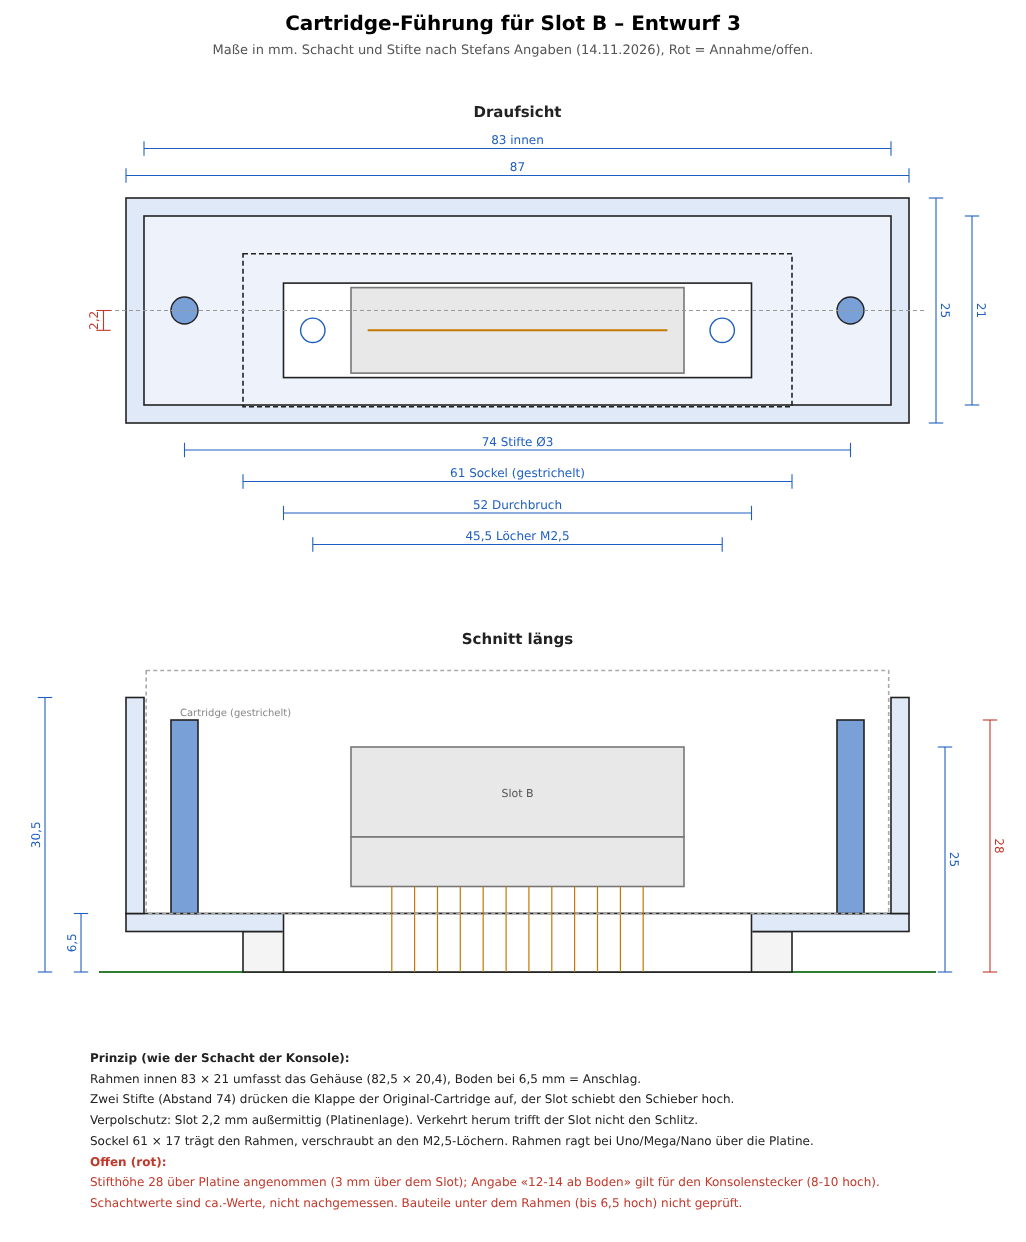
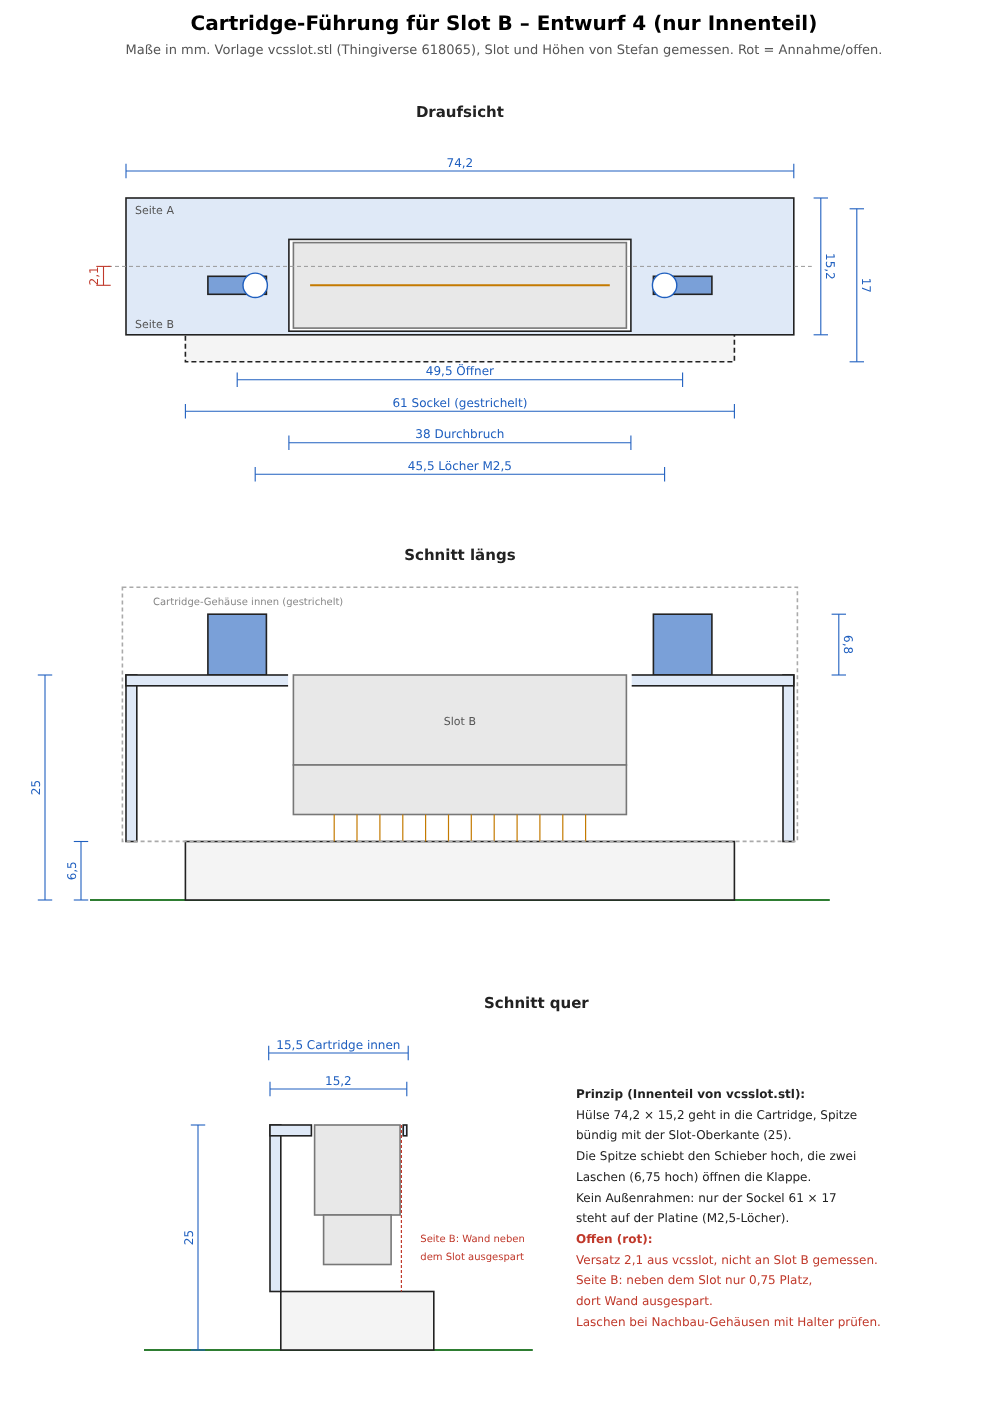
Cartridge guide draft 4: inner sleeve only, based on vcsslot.stl
Claude-Session: https://claude.ai/code/session_015VQCpzuZ22TPQEmx9cLrbH

diff --git a/hardware/guide-drawing/zeichnung.py b/hardware/guide-drawing/zeichnung.py
@@ -1,23 +1,19 @@
-# 2D-Massskizze der Cartridge-Fuehrung (3D-Druck), Entwurf 3: Aussenrahmen wie der Konsolenschacht, zwei Oeffner-Stifte
+# 2D-Massskizze der Cartridge-Fuehrung (3D-Druck), Entwurf 4: nur der Innenteil (Huelse) nach vcsslot.stl, angepasst an Slot B
 import sys
 # --- gemessen (Stefan 14.11.2026) ---
-SHELL_OUT_L, SHELL_OUT_W = 82.5, 20.4    # Cartridge aussen
 SLOT_TOP = 25.0                          # Oberkante Slot B ueber Platine (auf Stiftleisten)
-SHELL_Z = 6.5                            # Unterkante Gehaeuse ueber Platine, Cartridge gesteckt
+SHELL_Z = 6.5                            # Unterkante Cartridge-Gehaeuse ueber Platine, gesteckt
+SHELL_IN_L, SHELL_IN_W = 75.0, 15.5      # Cartridge innen
 SL_L, SL_W = 37.0, 9.5                   # Slot B
-# --- Schacht-Angaben (Stefan 14.11.2026, Konsolen-Schacht, ca.-Werte) ---
-FR_IN_L, FR_IN_W = 83.0, 21.0            # Innenmass Rahmen
-WALL = 2.0
-FR_L, FR_W = FR_IN_L + 2 * WALL, FR_IN_W + 2 * WALL
-PIN_X, PIN_D = 37.0, 3.0                 # Stifte +-37 von der Mitte
+# --- aus vcsslot.stl (RabbitEngineering, Thingiverse 618065) ---
+SLV_L, SLV_W = 74.2, 15.2                # Huelse an der Spitze
+OFF = 2.1                                # Platinenschlitz neben der Mitte
+PIN_X, PIN_L, PIN_T, PIN_H = 24.75, 6.5, 2.0, 6.75   # Klappen-Oeffner (Laschen ueber der Spitze)
 # --- Entwurf ---
-OFF = 2.2                                # Slot neben der Mitte (Platinenlage aus holder.stl), Verpolschutz
-FLOOR_T = 2.0                            # Anschlagboden, Oberkante = Gehaeuseunterkante 6,5
-FR_TOP = SHELL_Z + 24.0                  # Schachttiefe 24 (Angabe 22-25)
-PIN_TOP = SLOT_TOP + 3.0                 # Annahme: Stifte 3 mm ueber dem Slot, damit die Klappe vor dem Slot aufgeht
+WALL, TIP_T = 1.2, 1.2
+OPEN_L, OPEN_W = SL_L + 1.0, SL_W + 0.7  # Durchbruch in der Spitze fuer den Slot
 BASE_L, BASE_W = 61.0, 17.0              # Sockel = freie Flaeche auf allen Platinen
 HOLE_X, HOLE_D = 22.75, 2.7              # M2,5-Loecher der Platine
-CUT_L, CUT_W = 52.0, 10.5                # Durchbruch im Boden fuer den Slot
 S = 9
 RED, DIM, PIN, ADPC = '#c0392b', '#1f5fbf', '#c47a00', '#d9c7a0'
 out = []
@@ -40,73 +36,91 @@ def dimv(x, y1, y2, t, c=DIM, left=True):
 
 def hline(y, x0, x1, c='#999'): ln(x0, y, x1, y, c, 1, '4,3')
 
-
-def hline(y, x0, x1, c='#999'): ln(x0, y, x1, y, c, 1, '4,3')
-
 # --- Draufsicht ---
 ox, oy = 14, 22
-cx, cy = ox + FR_L / 2, oy + FR_W / 2
+cx, cy = ox + SLV_L / 2, oy + SLV_W / 2
 txt(cx, oy - 9, 'Draufsicht', 15, bold=True)
-rect(ox, oy, FR_L, FR_W, fill='#dfe9f7')
-rect(ox + WALL, oy + WALL, FR_IN_L, FR_IN_W, fill='#eef3fb')
-rect(cx - BASE_L / 2, cy + OFF - BASE_W / 2, BASE_L, BASE_W, fill='none', dash='5,3')
-rect(cx - CUT_L / 2, cy + OFF - CUT_W / 2, CUT_L, CUT_W, fill='white')
+rect(cx - BASE_L / 2, cy + OFF - BASE_W / 2, BASE_L, BASE_W, fill='#f4f4f4', dash='5,3')
+rect(ox, oy, SLV_L, SLV_W, fill='#dfe9f7')
+rect(cx - OPEN_L / 2, cy + OFF - OPEN_W / 2, OPEN_L, OPEN_W, fill='white')
 rect(cx - SL_L / 2, cy + OFF - SL_W / 2, SL_L, SL_W, fill='#e8e8e8', c='#777')
 ln(cx - 16.65, cy + OFF, cx + 16.65, cy + OFF, PIN, 2)
 for s in (-1, 1):
+    rect(cx + s * PIN_X - PIN_L / 2, cy + OFF - PIN_T / 2, PIN_L, PIN_T, fill='#7aa0d8')
     circ(cx + s * HOLE_X, cy + OFF, HOLE_D, '#fff', DIM)
-    circ(cx + s * PIN_X, cy, PIN_D, '#7aa0d8')
-hline(cy, ox - 2, ox + FR_L + 2)
-dimh(ox, ox + FR_L, oy - 2.5, f(FR_L))
-dimh(ox + WALL, ox + WALL + FR_IN_L, oy - 5.5, f(FR_IN_L) + ' innen')
-dimh(cx - PIN_X, cx + PIN_X, oy + FR_W + 3, f(2 * PIN_X) + ' Stifte Ø3')
-dimh(cx - BASE_L / 2, cx + BASE_L / 2, oy + FR_W + 6.5, f(BASE_L) + ' Sockel (gestrichelt)')
-dimh(cx - CUT_L / 2, cx + CUT_L / 2, oy + FR_W + 10, f(CUT_L) + ' Durchbruch')
-dimh(cx - HOLE_X, cx + HOLE_X, oy + FR_W + 13.5, f(2 * HOLE_X) + ' Löcher M2,5')
-dimv(ox + FR_L + 3, oy, oy + FR_W, f(FR_W), left=False)
-dimv(ox + FR_L + 7, oy + WALL, oy + WALL + FR_IN_W, f(FR_IN_W), left=False)
+hline(cy, ox - 2, ox + SLV_L + 2)
+dimh(ox, ox + SLV_L, oy - 3, f(SLV_L))
+dimh(cx - PIN_X, cx + PIN_X, oy + SLV_W + 5, f(2 * PIN_X) + ' Öffner')
+dimh(cx - BASE_L / 2, cx + BASE_L / 2, oy + SLV_W + 8.5, f(BASE_L) + ' Sockel (gestrichelt)')
+dimh(cx - OPEN_L / 2, cx + OPEN_L / 2, oy + SLV_W + 12, f(OPEN_L) + ' Durchbruch')
+dimh(cx - HOLE_X, cx + HOLE_X, oy + SLV_W + 15.5, f(2 * HOLE_X) + ' Löcher M2,5')
+dimv(ox + SLV_L + 3, oy, oy + SLV_W, f(SLV_W), left=False)
+dimv(ox + SLV_L + 7, cy + OFF - BASE_W / 2, cy + OFF + BASE_W / 2, f(BASE_W), left=False)
 dimv(ox - 2.5, cy, cy + OFF, f(OFF), RED)
+txt(ox + 1, oy + 1.8, 'Seite A', 11, '#555', 'start')
+txt(ox + 1, oy + SLV_W - .8, 'Seite B', 11, '#555', 'start')
 
-# --- Schnitt laengs (durch die Stifte) ---
-lx, base = 14, 108
-lcx = lx + FR_L / 2
-txt(lcx, base - FR_TOP - 6, 'Schnitt längs', 15, bold=True)
-ln(lx - 3, base, lx + FR_L + 3, base, '#2e7d32', 2.2)
-rect(lcx - BASE_L / 2, base - SHELL_Z + FLOOR_T, BASE_L, SHELL_Z - FLOOR_T, fill='#f4f4f4')
-rect(lx, base - SHELL_Z, FR_L, FLOOR_T, fill='#dfe9f7')
+# --- Schnitt laengs ---
+lx, base = 14, 100
+lcx = lx + SLV_L / 2
+txt(lcx, base - SLOT_TOP - PIN_H - 6, 'Schnitt längs', 15, bold=True)
+ln(lx - 4, base, lx + SLV_L + 4, base, '#2e7d32', 2.2)
+rect(lcx - BASE_L / 2, base - SHELL_Z, BASE_L, SHELL_Z, fill='#f4f4f4')
 for s in (-1, 1):
-    x0 = lx if s < 0 else lx + FR_L - WALL
-    rect(x0, base - FR_TOP, WALL, FR_TOP - SHELL_Z, fill='#dfe9f7')
-    rect(lcx + s * PIN_X - PIN_D / 2, base - PIN_TOP, PIN_D, PIN_TOP - SHELL_Z, fill='#7aa0d8')
-rect(lcx - CUT_L / 2, base - SHELL_Z, CUT_L, FLOOR_T + .2, fill='white', c='white')
-rect(lcx - CUT_L / 2, base - SHELL_Z, CUT_L, SHELL_Z, fill='white')
+    x0 = lx if s < 0 else lx + SLV_L - WALL
+    rect(x0, base - SLOT_TOP, WALL, SLOT_TOP - SHELL_Z, fill='#dfe9f7')
+    rect(lcx + s * PIN_X - PIN_L / 2, base - SLOT_TOP - PIN_H, PIN_L, PIN_H, fill='#7aa0d8')
+rect(lx, base - SLOT_TOP, SLV_L, TIP_T, fill='#dfe9f7')
+rect(lcx - OPEN_L / 2, base - SLOT_TOP - .1, OPEN_L, TIP_T + .2, fill='white', c='white')
 rect(lcx - SL_L / 2, base - SLOT_TOP, SL_L, 10, fill='#e8e8e8', c='#777')
 rect(lcx - SL_L / 2, base - SLOT_TOP + 10, SL_L, 5.5, fill='#e8e8e8', c='#777')
 for i in range(12):
     x = lcx - 13.97 + i * 2.54
-    ln(x, base - SLOT_TOP + 15.5, x, base, PIN, 1.2)
-rect(lx + WALL + .25, base - FR_TOP - 3, SHELL_OUT_L, FR_TOP - SHELL_Z + 3, fill='none', c='#aaa', dash='4,3')
-dimv(lx - 9, base - FR_TOP, base, f(FR_TOP))
+    ln(x, base - SLOT_TOP + 15.5, x, base - SHELL_Z, PIN, 1.2)
+rect(lx + (SLV_L - SHELL_IN_L) / 2, base - SLOT_TOP - PIN_H - 3, SHELL_IN_L, SLOT_TOP + PIN_H + 3 - SHELL_Z, fill='none', c='#aaa', dash='4,3')
+dimv(lx - 9, base - SLOT_TOP, base, f(SLOT_TOP))
 dimv(lx - 5, base - SHELL_Z, base, f(SHELL_Z))
-dimv(lx + FR_L + 4, base - SLOT_TOP, base, f(SLOT_TOP), left=False)
-dimv(lx + FR_L + 9, base - PIN_TOP, base, f(PIN_TOP), RED, left=False)
+dimv(lx + SLV_L + 5, base - SLOT_TOP - PIN_H, base - SLOT_TOP, f(PIN_H), left=False)
 txt(lcx, base - SLOT_TOP + 5.5, 'Slot B', 11, '#555')
-txt(lx + 6, base - FR_TOP + 2, 'Cartridge (gestrichelt)', 10, '#888', 'start')
+txt(lx + 3, base - SLOT_TOP - PIN_H - 1, 'Cartridge-Gehäuse innen (gestrichelt)', 10, '#888', 'start')
+
+# --- Schnitt quer ---
+qx = 30
+qcx = qx + SLV_W / 2
+txt(qcx + 22, 112, 'Schnitt quer', 15, bold=True)
+qb = 150
+ln(qx - 14, qb, qx + SLV_W + 14, qb, '#2e7d32', 2.2)
+rect(qcx + OFF - BASE_W / 2, qb - SHELL_Z, BASE_W, SHELL_Z, fill='#f4f4f4')
+rect(qcx - SLV_W / 2, qb - SLOT_TOP, WALL, SLOT_TOP - SHELL_Z, fill='#dfe9f7')
+rect(qcx - SLV_W / 2, qb - SLOT_TOP, (qcx + OFF - OPEN_W / 2) - (qcx - SLV_W / 2), TIP_T, fill='#dfe9f7')
+rect(qcx + OFF + OPEN_W / 2, qb - SLOT_TOP, (qcx + SLV_W / 2) - (qcx + OFF + OPEN_W / 2), TIP_T, fill='#dfe9f7')
+rect(qcx + OFF - SL_W / 2, qb - SLOT_TOP, SL_W, 10, fill='#e8e8e8', c='#777')
+rect(qcx + OFF - 7.5 / 2, qb - SLOT_TOP + 10, 7.5, 5.5, fill='#e8e8e8', c='#777')
+ln(qcx + SLV_W / 2 - WALL / 2, qb - SLOT_TOP, qcx + SLV_W / 2 - WALL / 2, qb - SHELL_Z, RED, 1.2, '3,2')
+dimh(qcx - SLV_W / 2, qcx + SLV_W / 2, qb - SLOT_TOP - 4, f(SLV_W))
+dimh(qcx - SHELL_IN_W / 2, qcx + SHELL_IN_W / 2, qb - SLOT_TOP - 8, f(SHELL_IN_W) + ' Cartridge innen')
+dimv(qx - 8, qb - SLOT_TOP, qb, f(SLOT_TOP))
+txt(qcx + SLV_W / 2 + 1.5, qb - 12, 'Seite B: Wand neben', 10, RED, 'start')
+txt(qcx + SLV_W / 2 + 1.5, qb - 10, 'dem Slot ausgespart', 10, RED, 'start')
 
 # --- Hinweise ---
-nx, ny = 10, 118
-notes = [('Prinzip (wie der Schacht der Konsole):', '#222', True),
-         ('Rahmen innen 83 × 21 umfasst das Gehäuse (82,5 × 20,4), Boden bei 6,5 mm = Anschlag.', '#222', False),
-         ('Zwei Stifte (Abstand 74) drücken die Klappe der Original-Cartridge auf, der Slot schiebt den Schieber hoch.', '#222', False),
-         ('Verpolschutz: Slot 2,2 mm außermittig (Platinenlage). Verkehrt herum trifft der Slot nicht den Schlitz.', '#222', False),
-         ('Sockel 61 × 17 trägt den Rahmen, verschraubt an den M2,5-Löchern. Rahmen ragt bei Uno/Mega/Nano über die Platine.', '#222', False),
+nx, ny = 64, 122
+notes = [('Prinzip (Innenteil von vcsslot.stl):', '#222', True),
+         ('Hülse 74,2 × 15,2 geht in die Cartridge, Spitze', '#222', False),
+         ('bündig mit der Slot-Oberkante (25).', '#222', False),
+         ('Die Spitze schiebt den Schieber hoch, die zwei', '#222', False),
+         ('Laschen (6,75 hoch) öffnen die Klappe.', '#222', False),
+         ('Kein Außenrahmen: nur der Sockel 61 × 17', '#222', False),
+         ('steht auf der Platine (M2,5-Löcher).', '#222', False),
          ('Offen (rot):', RED, True),
-         ('Stifthöhe 28 über Platine angenommen (3 mm über dem Slot); Angabe «12-14 ab Boden» gilt für den Konsolenstecker (8-10 hoch).', RED, False),
-         ('Schachtwerte sind ca.-Werte, nicht nachgemessen. Bauteile unter dem Rahmen (bis 6,5 hoch) nicht geprüft.', RED, False)]
+         ('Versatz 2,1 aus vcsslot, nicht an Slot B gemessen.', RED, False),
+         ('Seite B: neben dem Slot nur 0,75 Platz,', RED, False),
+         ('dort Wand ausgespart.', RED, False),
+         ('Laschen bei Nachbau-Gehäusen mit Halter prüfen.', RED, False)]
 for i, (t, c, b) in enumerate(notes):
     txt(nx, ny + i * 2.3, t, 12, c, 'start', bold=b)
-w, h = 114 * S, 138 * S
+w, h = 112 * S, 156 * S
 svg = f'<svg xmlns="http://www.w3.org/2000/svg" width="{w}" height="{h}" viewBox="0 0 {w} {h}"><rect width="100%" height="100%" fill="white"/>' + \
-      f'<text x="{w/2}" y="30" font-family="DejaVu Sans, sans-serif" font-size="20" font-weight="bold" text-anchor="middle">Cartridge-Führung für Slot B – Entwurf 3</text>' + \
-      f'<text x="{w/2}" y="54" font-family="DejaVu Sans, sans-serif" font-size="13" fill="#555" text-anchor="middle">Maße in mm. Schacht und Stifte nach Stefans Angaben (14.11.2026), Rot = Annahme/offen.</text>' + ''.join(out) + '</svg>'
+      f'<text x="{w/2}" y="30" font-family="DejaVu Sans, sans-serif" font-size="20" font-weight="bold" text-anchor="middle">Cartridge-Führung für Slot B – Entwurf 4 (nur Innenteil)</text>' + \
+      f'<text x="{w/2}" y="54" font-family="DejaVu Sans, sans-serif" font-size="13" fill="#555" text-anchor="middle">Maße in mm. Vorlage vcsslot.stl (Thingiverse 618065), Slot und Höhen von Stefan gemessen. Rot = Annahme/offen.</text>' + ''.join(out) + '</svg>'
 open(sys.argv[1], 'w').write(svg)
